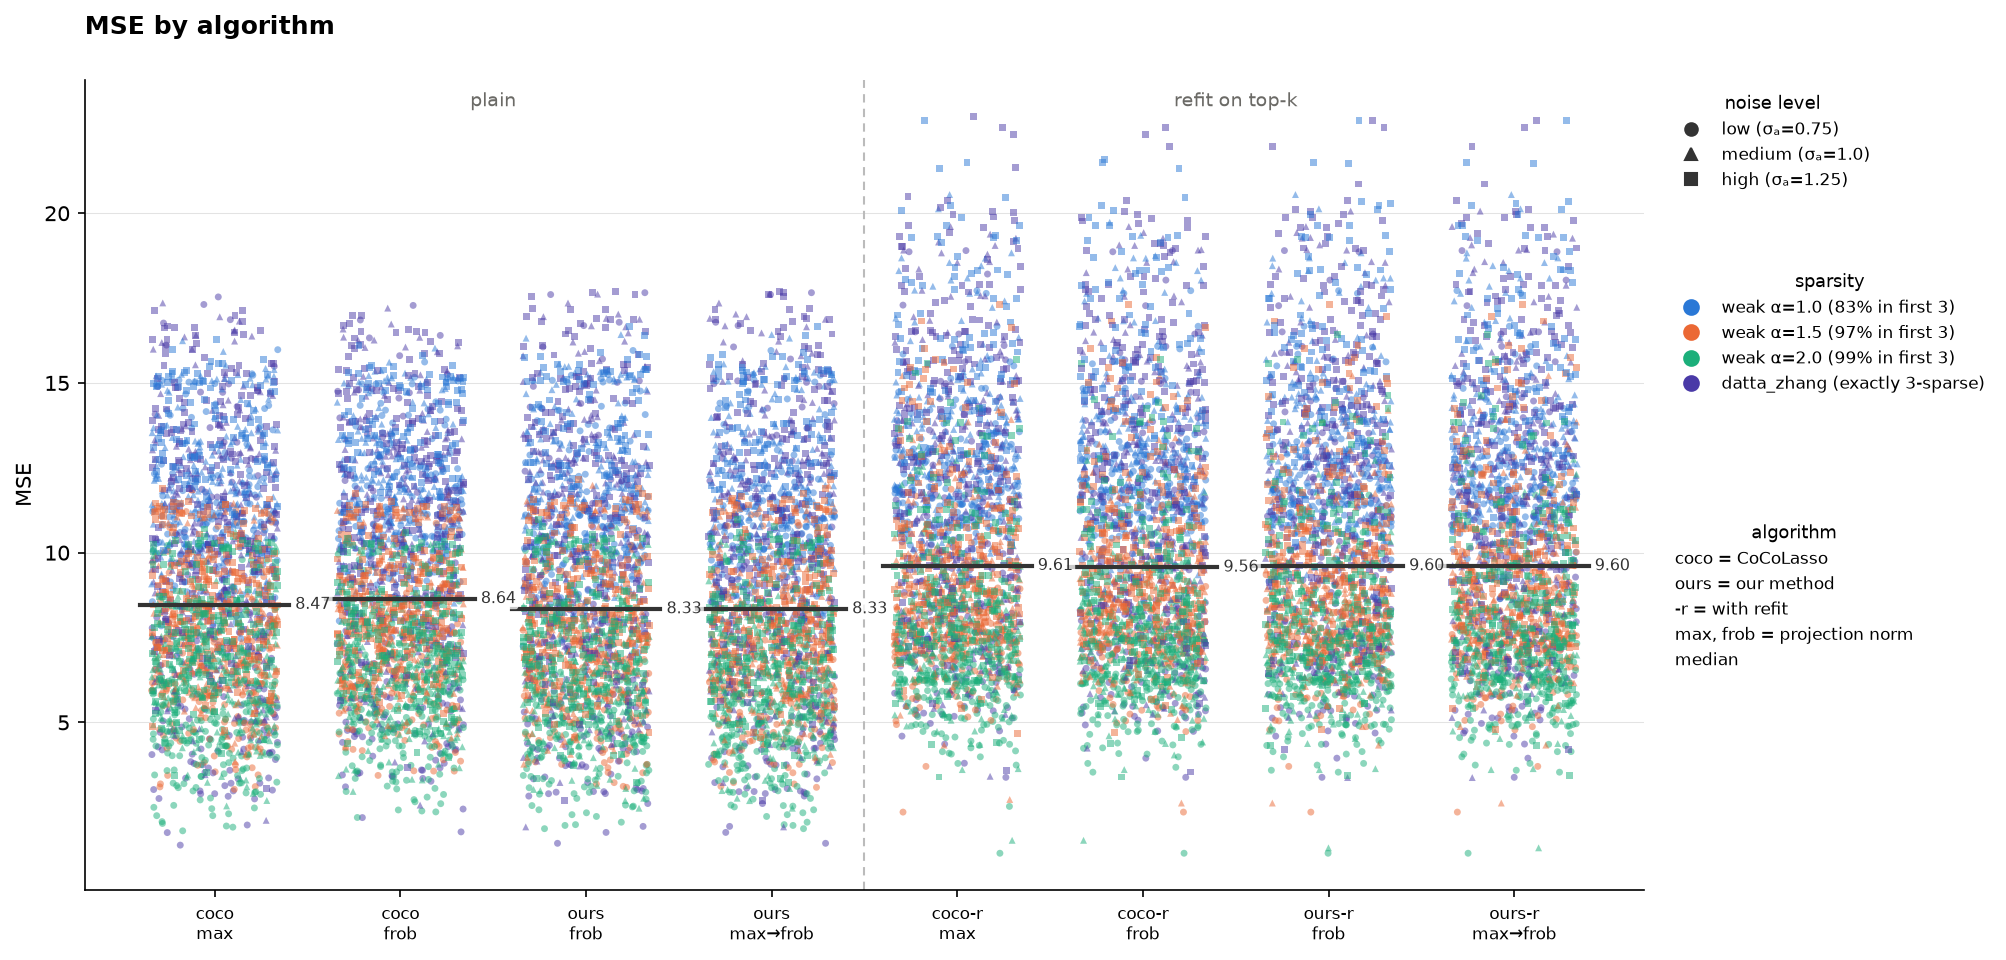
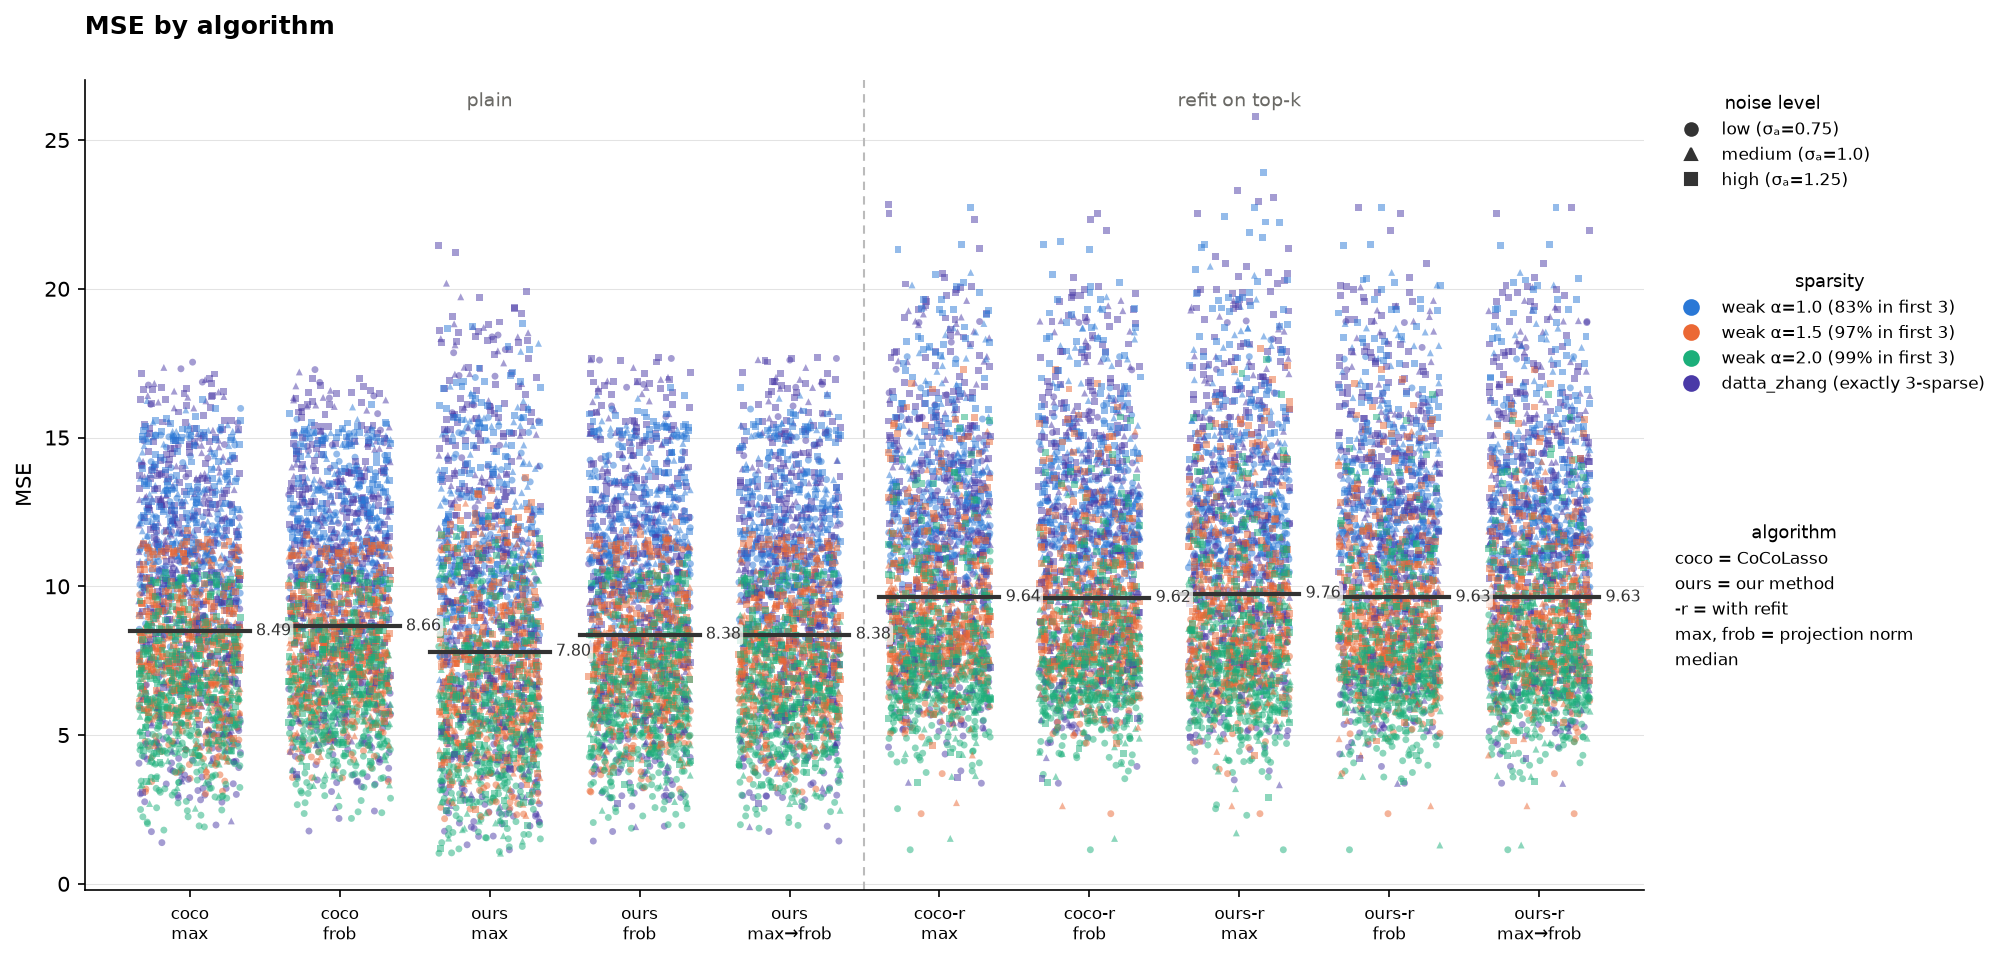
Include ours-max arms in all-algorithm plots by default
Claude-Session: https://claude.ai/code/session_01V3J21QpHByCopFrXppzNqQ

diff --git a/plot_all_losses.py b/plot_all_losses.py
@@ -2,7 +2,7 @@
 
     python plot_all_losses.py
     python plot_all_losses.py --metric mse
-    python plot_all_losses.py --exclude reweighted_max reweighted_refit_max
+    python plot_all_losses.py --exclude reweighted_refit_max
 
 Only runs whose (setting, seed) exists for *every* algorithm plotted are shown.
 The intersection is taken first and reported before anything is drawn, so the
@@ -179,14 +179,8 @@ def main(argv=None) -> int:
                                  formatter_class=argparse.RawDescriptionHelpFormatter)
     ap.add_argument("--csv", default=CSV_IN)
     ap.add_argument("--metric", default="pe", choices=["pe", "mse", "time"])
-    # Both pure-max reweighted arms are excluded by default: they are the
-    # chunked ~77-minute jobs and are still finishing, and including either one
-    # shrinks the matched intersection from 2200 runs across 22 settings to
-    # 1325 across 18. Drop the flag once the sweep completes.
-    ap.add_argument("--exclude", nargs="*",
-                    default=["reweighted_max", "reweighted_refit_max"],
-                    help="algorithms to leave out of the comparison entirely "
-                         "[default: the two pure-max reweighted arms]")
+    ap.add_argument("--exclude", nargs="*", default=[],
+                    help="algorithms to leave out of the comparison entirely")
     ap.add_argument("--out", default=None)
     ap.add_argument("--log", action="store_true", help="log y axis")
     args = ap.parse_args(argv)
